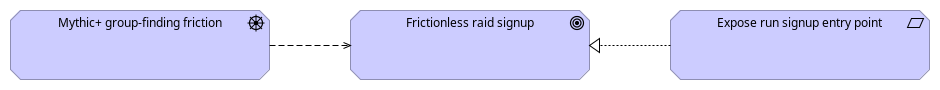
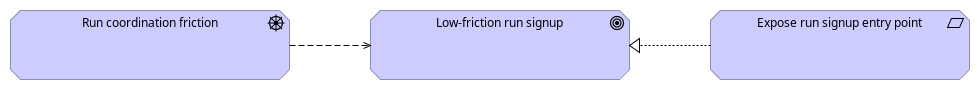
Fix architecture naming

Changed region(s): [[0.4319, 0.1111, 1.0, 0.8889], [0.0617, 0.1111, 0.4011, 0.8889], [0.0, 0.1333, 0.0309, 0.1778]]

diff --git a/docs/architecture/README.md b/docs/architecture/README.md
@@ -14,7 +14,7 @@ The model was lifted from the repository's .NET solution, Bicep IaC, and GitHub 
 | 4 | Production Release Migration | `Migration` | [`id-view-migration.png`](renders/id-view-migration.png) |
 | 5 | Capability Map (FORWARD-ONLY scaffold) | `Capability Map` | [`id-view-capability-map.png`](renders/id-view-capability-map.png) |
 | 6 | Motivation (FORWARD-ONLY scaffold) | `Motivation` | [`id-view-motivation.png`](renders/id-view-motivation.png) |
-| 7 | Mythic+ Run Signup — Business Process Cooperation | `Business Process Cooperation` | [`id-view-business-processes.png`](renders/id-view-business-processes.png) |
+| 7 | Run Signup — Business Process Cooperation | `Business Process Cooperation` | [`id-view-business-processes.png`](renders/id-view-business-processes.png) |
 | 8 | Browse open runs — Service Realization (Process-rooted) | `Service Realization` | [`id-view-sr-browse-runs.png`](renders/id-view-sr-browse-runs.png) |
 | 9 | Inspect run detail — Service Realization (Process-rooted) | `Service Realization` | [`id-view-sr-inspect-run.png`](renders/id-view-sr-inspect-run.png) |
 | 10 | Sign up for run — Service Realization (Process-rooted) | `Service Realization` | [`id-view-service-realization.png`](renders/id-view-service-realization.png) |
@@ -48,43 +48,43 @@ CI/CD release path lifted from [`.github/workflows/`](../../.github/workflows/).
 
 ![Capability Map](renders/id-view-capability-map.png)
 
-Three-row realisation chain for the architect to iterate on: real **Application Services** (lifted from `api/Functions/*`) → forward-only **Business Services** (suggestive labels inferred from the API surface) → forward-only **Strategy Capabilities** (architect to validate or rename). The three Capabilities ("Find a group for Mythic+", "Guild roster management", "Personal character portfolio") are placeholders — they have not been validated against business stakeholders and are likely incomplete (no Account / Authentication capability is stubbed yet, no Stakeholders are modeled, and the Motivation layer is only a minimal run-signup seed rather than a full capability rationale).
+Three-row realisation chain for the architect to iterate on: real **Application Services** (lifted from `api/Functions/*`) → forward-only **Business Services** (suggestive labels inferred from the API surface) → forward-only **Strategy Capabilities** (architect to validate or rename). The three Capabilities ("Coordinate raid and dungeon runs", "Guild roster management", "Personal character portfolio") are placeholders — they have not been validated against business stakeholders and are likely incomplete (no Account / Authentication capability is stubbed yet, no Stakeholders are modeled, and the Motivation layer is only a minimal run-signup seed rather than a full capability rationale).
 
 ### 6. Motivation (FORWARD-ONLY scaffold)
 
 ![Motivation](renders/id-view-motivation.png)
 
-Forward-only seed for the "why" behind the run-signup capability. It connects the inferred `Mythic+ group-finding friction` Driver to the inferred `Frictionless raid signup` Goal and adds the `Expose run signup entry point` Requirement as the design constraint that realizes the goal. These elements are placeholders derived from the current product surface, not validated stakeholder intent; the architect should replace or refine them before using the view as governance evidence.
+Forward-only seed for the "why" behind the run-signup capability. It connects the inferred `Run coordination friction` Driver to the inferred `Low-friction run signup` Goal and adds the `Expose run signup entry point` Requirement as the design constraint that realizes the goal. These elements are placeholders derived from the current product surface, not validated stakeholder intent; the architect should replace or refine them before using the view as governance evidence.
 
-### 7. Mythic+ Run Signup — Business Process Cooperation (FORWARD-ONLY)
+### 7. Run Signup — Business Process Cooperation (FORWARD-ONLY)
 
 ![Business Process Cooperation](renders/id-view-business-processes.png)
 
-§9.7 Business Process Cooperation view of the user-driven "Sign up for Mythic+ run" flow. **Active structure** (top): a `Mythic+ Player` Business Actor Assigned to every user-driven Behaviour. **Behaviour** (middle, left-to-right Triggering chain): an entry `Player wants to run a key` Business Event → `Browse open runs` (realised by `RunsListFunction`) → `Inspect run detail` (`RunsDetailFunction`) → `Sign up for run` (`RunsSignupFunction`) → terminal `Signup confirmed` Business Event; an alt-path Flow from `Sign up for run` to `Cancel signup` (`RunsCancelSignupFunction`). **Passive structure** (bottom): `Run` and `Signup` Business Objects, Accessed by the Behaviour steps that read or write them. LFM has no Durable Functions orchestrators or Logic Apps, so this chain is architect-authored rather than lifted (per architecture-design `references/procedures/lifting-rules-process.md`); forward-only status is retained in element documentation rather than repeated in visible labels. Names and chain shape have **not** been validated against business stakeholders.
+§9.7 Business Process Cooperation view of the user-driven "Sign up for run" flow. **Active structure** (top): a `Player` Business Actor Assigned to every user-driven Behaviour. **Behaviour** (middle, left-to-right Triggering chain): an entry `Player wants to join a run` Business Event → `Browse open runs` (realised by `RunsListFunction`) → `Inspect run detail` (`RunsDetailFunction`) → `Sign up for run` (`RunsSignupFunction`) → terminal `Signup confirmed` Business Event; an alt-path Flow from `Sign up for run` to `Cancel signup` (`RunsCancelSignupFunction`). **Passive structure** (bottom): `Run` and `Signup` Business Objects, Accessed by the Behaviour steps that read or write them. LFM has no Durable Functions orchestrators or Logic Apps, so this chain is architect-authored rather than lifted (per architecture-design `references/procedures/lifting-rules-process.md`); forward-only status is retained in element documentation rather than repeated in visible labels. Names and chain shape have **not** been validated against business stakeholders.
 
 ### 8. Browse open runs — Service Realization (Process-rooted)
 
 ![Browse open runs Service Realization](renders/id-view-sr-browse-runs.png)
 
-§9.3 Service Realization drill-down for the `Browse open runs` Business Process. The forward-only Business Process is realised by the real `Mythic+ Runs` Application Service, implemented by `Lfm.Api`, hosted on `Azure Function App`, and served by `Azure Cosmos DB account` on the data plane. The user-driven entry point is the UI Application Component [`app/Pages/RunsPage.razor`](../../app/Pages/RunsPage.razor) exposing the `/runs` Application Interface.
+§9.3 Service Realization drill-down for the `Browse open runs` Business Process. The forward-only Business Process is realised by the real `Run Management` Application Service, implemented by `Lfm.Api`, hosted on `Azure Function App`, and served by `Azure Cosmos DB account` on the data plane. The user-driven entry point is the UI Application Component [`app/Pages/RunsPage.razor`](../../app/Pages/RunsPage.razor) exposing the `/runs` Application Interface.
 
 ### 9. Inspect run detail — Service Realization (Process-rooted)
 
 ![Inspect run detail Service Realization](renders/id-view-sr-inspect-run.png)
 
-§9.3 Service Realization drill-down for the `Inspect run detail` Business Process. The forward-only process is realised by the same real `Mythic+ Runs` Application Service and `Lfm.Api` component, hosted on `Azure Function App`, with `Azure Cosmos DB account` serving the run-detail read path. The user-driven entry point is [`app/Pages/RunsPage.razor`](../../app/Pages/RunsPage.razor) exposing the `/runs/{RunId}` Application Interface.
+§9.3 Service Realization drill-down for the `Inspect run detail` Business Process. The forward-only process is realised by the same real `Run Management` Application Service and `Lfm.Api` component, hosted on `Azure Function App`, with `Azure Cosmos DB account` serving the run-detail read path. The user-driven entry point is [`app/Pages/RunsPage.razor`](../../app/Pages/RunsPage.razor) exposing the `/runs/{RunId}` Application Interface.
 
 ### 10. Sign up for run — Service Realization (Process-rooted)
 
 ![Sign up for run Service Realization](renders/id-view-service-realization.png)
 
-§9.3 Service Realization view, Process-rooted modality. The Business Process `Sign up for run` (top, FORWARD-ONLY) drills down through `Mythic+ Runs` Application Service → `Lfm.Api` Application Component → `Azure Function App` Technology Node, with `Azure Cosmos DB account` serving the Function App on the data plane. Per the §9.3 Blazor idiom, the user-driven entry point is the UI Application Component `app/Pages/RunsPage.razor` exposing the `/runs/{RunId}` Application Interface; the UI Component carries a Realisation edge to the Business Process. This view satisfies the AD-B-6 / AD-B-7 / AD-B-8 / AD-B-9 / AD-B-10 between-view invariants for the §9.7 Business Process Cooperation view (sibling).
+§9.3 Service Realization view, Process-rooted modality. The Business Process `Sign up for run` (top, FORWARD-ONLY) drills down through `Run Management` Application Service → `Lfm.Api` Application Component → `Azure Function App` Technology Node, with `Azure Cosmos DB account` serving the Function App on the data plane. Per the §9.3 Blazor idiom, the user-driven entry point is the UI Application Component `app/Pages/RunsPage.razor` exposing the `/runs/{RunId}` Application Interface; the UI Component carries a Realisation edge to the Business Process. This view satisfies the AD-B-6 / AD-B-7 / AD-B-8 / AD-B-9 / AD-B-10 between-view invariants for the §9.7 Business Process Cooperation view (sibling).
 
 ### 11. Cancel signup — Service Realization (Process-rooted)
 
 ![Cancel signup Service Realization](renders/id-view-sr-cancel-signup.png)
 
-§9.3 Service Realization drill-down for the `Cancel signup` alternate-path Business Process. The process is realised by `Mythic+ Runs` through `Lfm.Api` on `Azure Function App`, with `Azure Cosmos DB account` serving the signup mutation path. The user-driven entry point remains [`app/Pages/RunsPage.razor`](../../app/Pages/RunsPage.razor) and the `/runs/{RunId}` Application Interface, matching the sibling cooperation view's alt-path Flow.
+§9.3 Service Realization drill-down for the `Cancel signup` alternate-path Business Process. The process is realised by `Run Management` through `Lfm.Api` on `Azure Function App`, with `Azure Cosmos DB account` serving the signup mutation path. The user-driven entry point remains [`app/Pages/RunsPage.razor`](../../app/Pages/RunsPage.razor) and the `/runs/{RunId}` Application Interface, matching the sibling cooperation view's alt-path Flow.
 
 ## Forward-only scope
 
